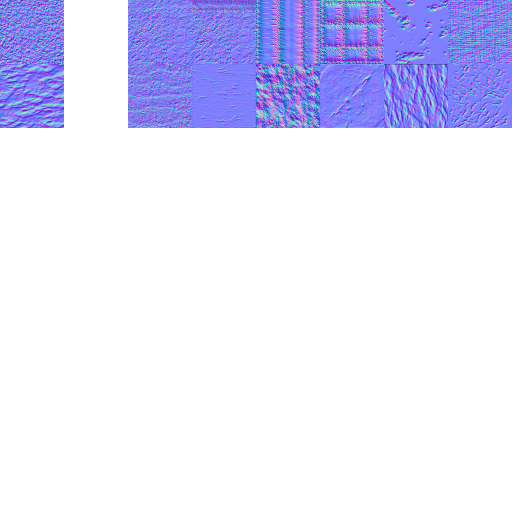
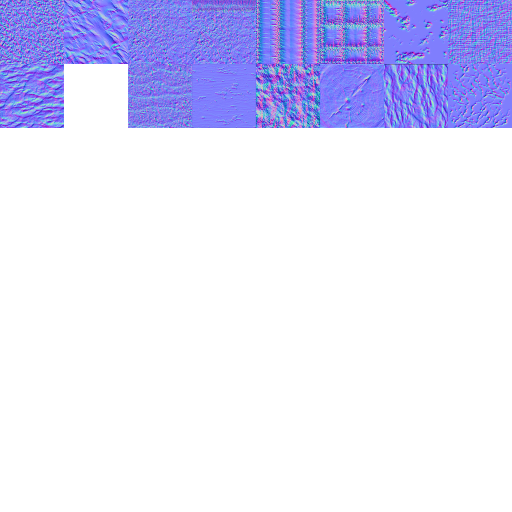
water texture

Changed region(s): [[0.125, 0.0, 0.25, 0.125]]

diff --git a/game/BlockType.cpp b/game/BlockType.cpp
@@ -38,7 +38,7 @@ Vec2f getTexCoords(BlockType type, BlockSide side){
 	switch(type){
 
 		case BlockType::Water:
-		return m*Vec2f(1,3);
+		return m*Vec2f(1,0);
 				
 
 		case BlockType::Dirt:
